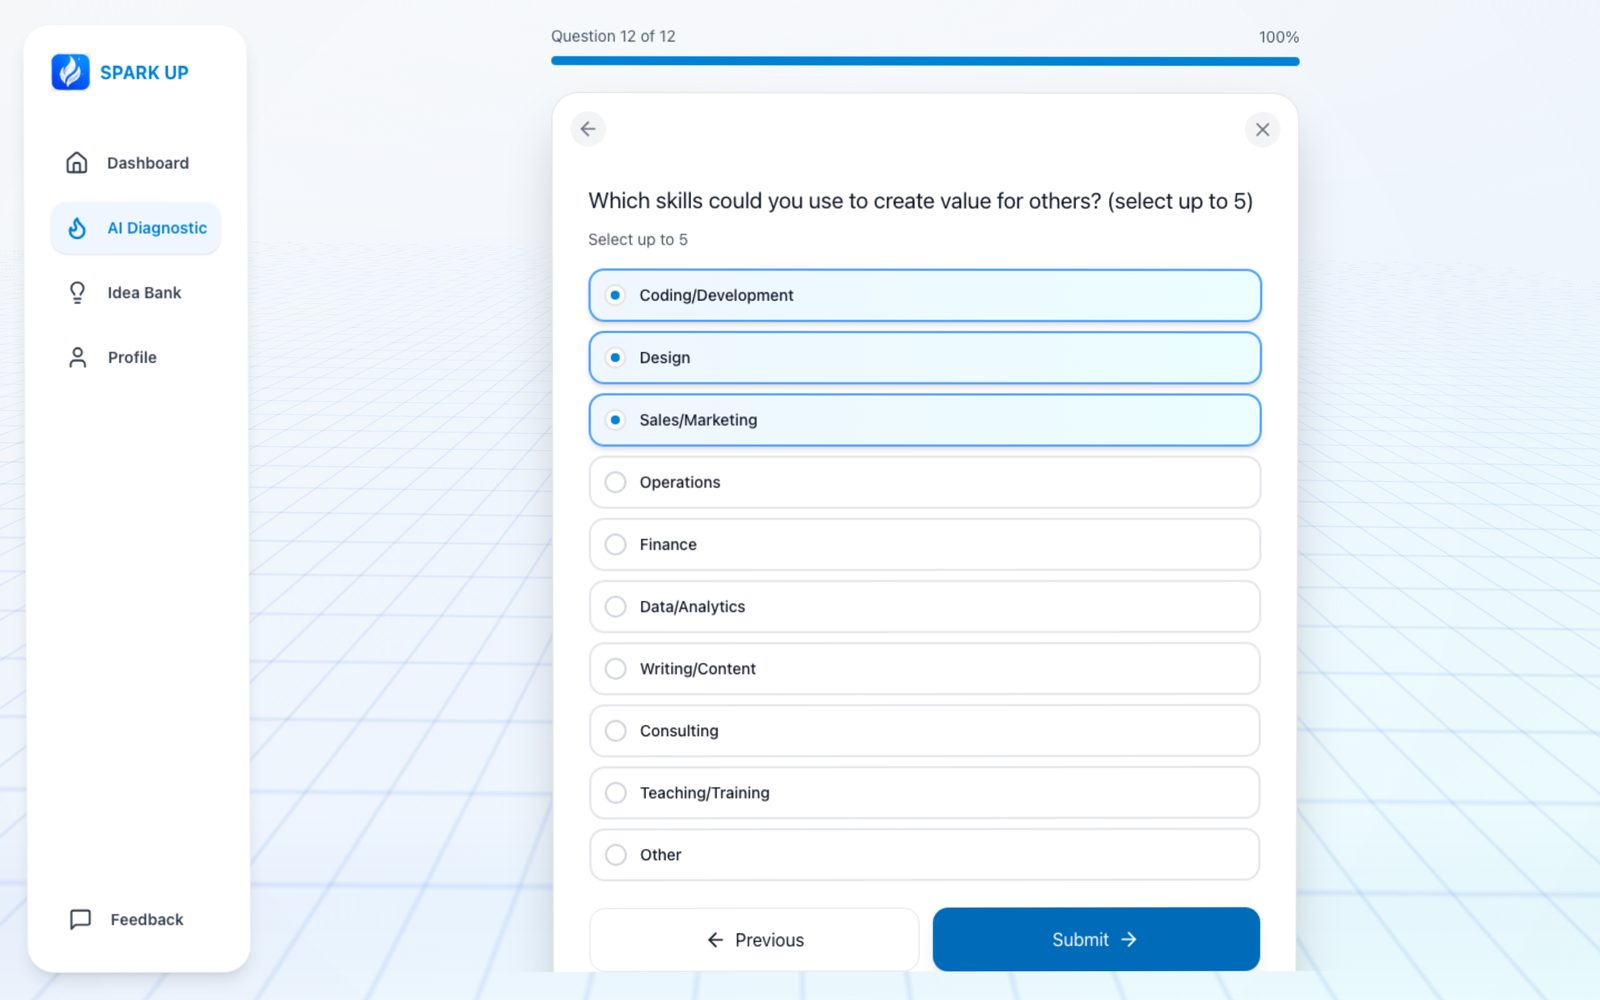
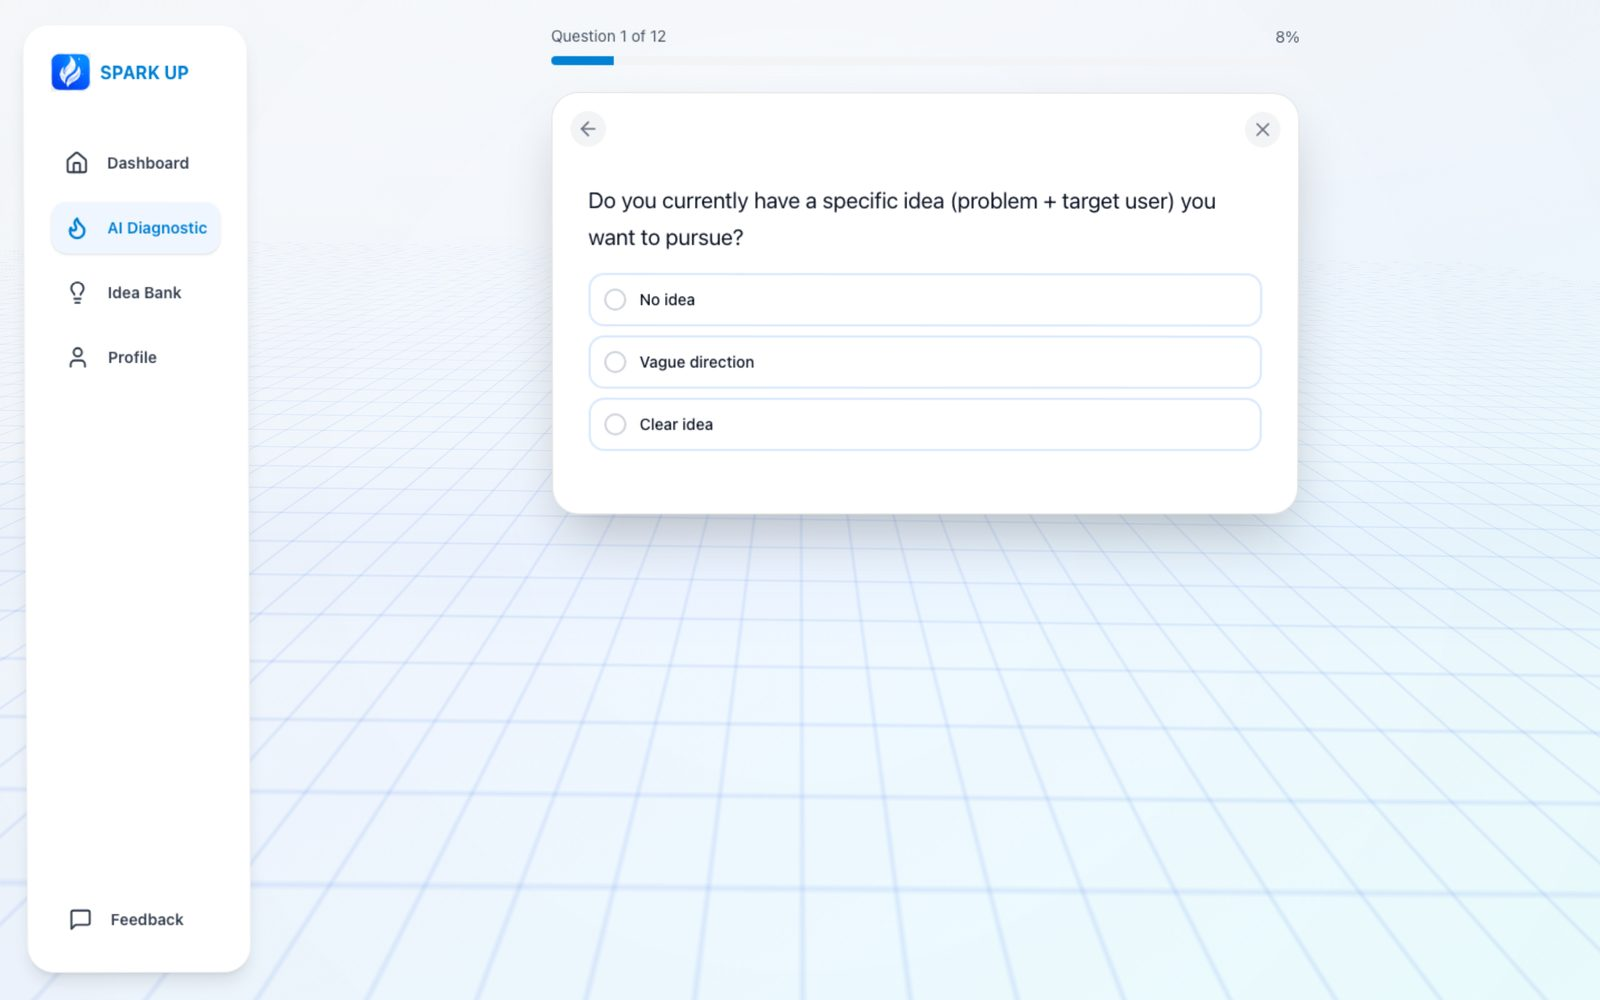
feat(sparkup): 五张公开页改成跳线上; Diagnostic Flow 换成短问题
- Landing / Assessment Picker / Dashboard / Idea Bank / Create Account 直接跳
  Cloud Run 线上站(逐条访问确认过: 五条路由都不需登录, 不会被弹到登录页),
  卡脚标记从 full page ↗ 换成 →; 切到 Mobile 时这五张不参与链接替换
  (脚本只改 ^shots/ 开头的)
- Diagnostic Flow 原来收的是第 12 题(多选 + 十个选项, 太长), 换成第 1 题:
  一句问题 + 三个选项, 顶上还有 Question 1 of 12 / 8% 的进度

Changed region(s): [[0.3438, 0.186, 0.8125, 0.992], [0.375, 0.031, 0.8125, 0.093], [0.3438, 0.93, 0.375, 0.961]]

diff --git a/public/sparkup-ui-kit/index.html b/public/sparkup-ui-kit/index.html
@@ -58,6 +58,8 @@
   .foot .ds{font-size:14px;color:var(--muted);overflow:hidden;white-space:nowrap;text-overflow:ellipsis}
   .foot .tagx{margin-left:auto;font-family:var(--mono);font-size:10.5px;letter-spacing:.12em;color:#a3aab8;text-transform:uppercase;white-space:nowrap}
   a.card:hover .tagx{color:var(--accent)}
+  .foot .arr{margin-left:auto;font-family:var(--mono);font-size:17px;color:var(--ink);transition:transform .3s ease,color .3s ease}
+  a.card:hover .arr{transform:translateX(5px);color:var(--accent)}
   .end{margin-top:70px;padding-top:20px;border-top:1px solid var(--line);display:flex;justify-content:space-between;
     gap:20px;font-family:var(--mono);font-size:11.5px;letter-spacing:.1em;color:var(--muted);flex-wrap:wrap}
 </style>
@@ -84,23 +86,23 @@
 
   <div class="sec"><span class="rn">I</span><span class="en">Front Door</span><span class="tg">the pitch</span></div>
   <div class="grid">
-    <a class="card" href="shots/landing.jpg" target="_blank" rel="noopener">
+    <a class="card" href="https://willinghood-core-wwmhkbgzea-uc.a.run.app/" target="_blank" rel="noopener">
       <div class="pv">
         <div class="shot"><img loading="lazy" src="shots/landing.jpg" alt="Landing"></div>
         <div class="phone"><div class="isl"></div><div class="scr"><img loading="lazy" src="shots/mt-landing.jpg" alt="Landing, mobile"></div></div>
       </div>
-      <div class="foot"><span class="rn">i</span><span class="nm">Landing</span><span class="ds">where ideas get their first spark</span><span class="tagx">full page ↗</span></div>
+      <div class="foot"><span class="rn">i</span><span class="nm">Landing</span><span class="ds">where ideas get their first spark</span><span class="arr">&rarr;</span></div>
     </a>
   </div>
 
   <div class="sec"><span class="rn">II</span><span class="en">Diagnostic</span><span class="tg">know before you leap</span></div>
   <div class="grid">
-    <a class="card" href="shots/ai-test.jpg" target="_blank" rel="noopener">
+    <a class="card" href="https://willinghood-core-wwmhkbgzea-uc.a.run.app/ai-test" target="_blank" rel="noopener">
       <div class="pv">
         <div class="shot"><img loading="lazy" src="shots/ai-test.jpg" alt="Assessment Picker"></div>
         <div class="phone"><div class="isl"></div><div class="scr"><img loading="lazy" src="shots/mt-ai-test.jpg" alt="Assessment Picker, mobile"></div></div>
       </div>
-      <div class="foot"><span class="rn">ii</span><span class="nm">Assessment Picker</span><span class="ds">quick five minutes, or the full read</span><span class="tagx">full page ↗</span></div>
+      <div class="foot"><span class="rn">ii</span><span class="nm">Assessment Picker</span><span class="ds">quick five minutes, or the full read</span><span class="arr">&rarr;</span></div>
     </a>
     <a class="card" href="shots/diagnostic.jpg" target="_blank" rel="noopener">
       <div class="pv">
@@ -113,19 +115,19 @@
 
   <div class="sec"><span class="rn">III</span><span class="en">Ideas</span><span class="tg">from seed to plan</span></div>
   <div class="grid">
-    <a class="card" href="shots/dashboard.jpg" target="_blank" rel="noopener">
+    <a class="card" href="https://willinghood-core-wwmhkbgzea-uc.a.run.app/dashboard" target="_blank" rel="noopener">
       <div class="pv">
         <div class="shot"><img loading="lazy" src="shots/dashboard.jpg" alt="Dashboard"></div>
         <div class="phone"><div class="isl"></div><div class="scr"><img loading="lazy" src="shots/mt-dashboard.jpg" alt="Dashboard, mobile"></div></div>
       </div>
-      <div class="foot"><span class="rn">iv</span><span class="nm">Dashboard</span><span class="ds">readiness, next steps, and the square</span><span class="tagx">full page ↗</span></div>
+      <div class="foot"><span class="rn">iv</span><span class="nm">Dashboard</span><span class="ds">readiness, next steps, and the square</span><span class="arr">&rarr;</span></div>
     </a>
-    <a class="card" href="shots/idea-bank.jpg" target="_blank" rel="noopener">
+    <a class="card" href="https://willinghood-core-wwmhkbgzea-uc.a.run.app/idea-bank" target="_blank" rel="noopener">
       <div class="pv">
         <div class="shot"><img loading="lazy" src="shots/idea-bank.jpg" alt="Idea Bank"></div>
         <div class="phone"><div class="isl"></div><div class="scr"><img loading="lazy" src="shots/mt-idea-bank.jpg" alt="Idea Bank, mobile"></div></div>
       </div>
-      <div class="foot"><span class="rn">v</span><span class="nm">Idea Bank</span><span class="ds">curated seeds + the sparking engine</span><span class="tagx">full page ↗</span></div>
+      <div class="foot"><span class="rn">v</span><span class="nm">Idea Bank</span><span class="ds">curated seeds + the sparking engine</span><span class="arr">&rarr;</span></div>
     </a>
   </div>
 
@@ -138,12 +140,12 @@
       </div>
       <div class="foot"><span class="rn">vi</span><span class="nm">Sign in</span><span class="ds">password or email link</span><span class="tagx">full page ↗</span></div>
     </a>
-    <a class="card" href="shots/register.jpg" target="_blank" rel="noopener">
+    <a class="card" href="https://willinghood-core-wwmhkbgzea-uc.a.run.app/register" target="_blank" rel="noopener">
       <div class="pv">
         <div class="shot"><img loading="lazy" src="shots/register.jpg" alt="Create Account"></div>
         <div class="phone"><div class="isl"></div><div class="scr"><img loading="lazy" src="shots/mt-register.jpg" alt="Create Account, mobile"></div></div>
       </div>
-      <div class="foot"><span class="rn">vii</span><span class="nm">Create Account</span><span class="ds">one screen, no wizard</span><span class="tagx">full page ↗</span></div>
+      <div class="foot"><span class="rn">vii</span><span class="nm">Create Account</span><span class="ds">one screen, no wizard</span><span class="arr">&rarr;</span></div>
     </a>
     <a class="card" href="shots/feedback.jpg" target="_blank" rel="noopener">
       <div class="pv">
